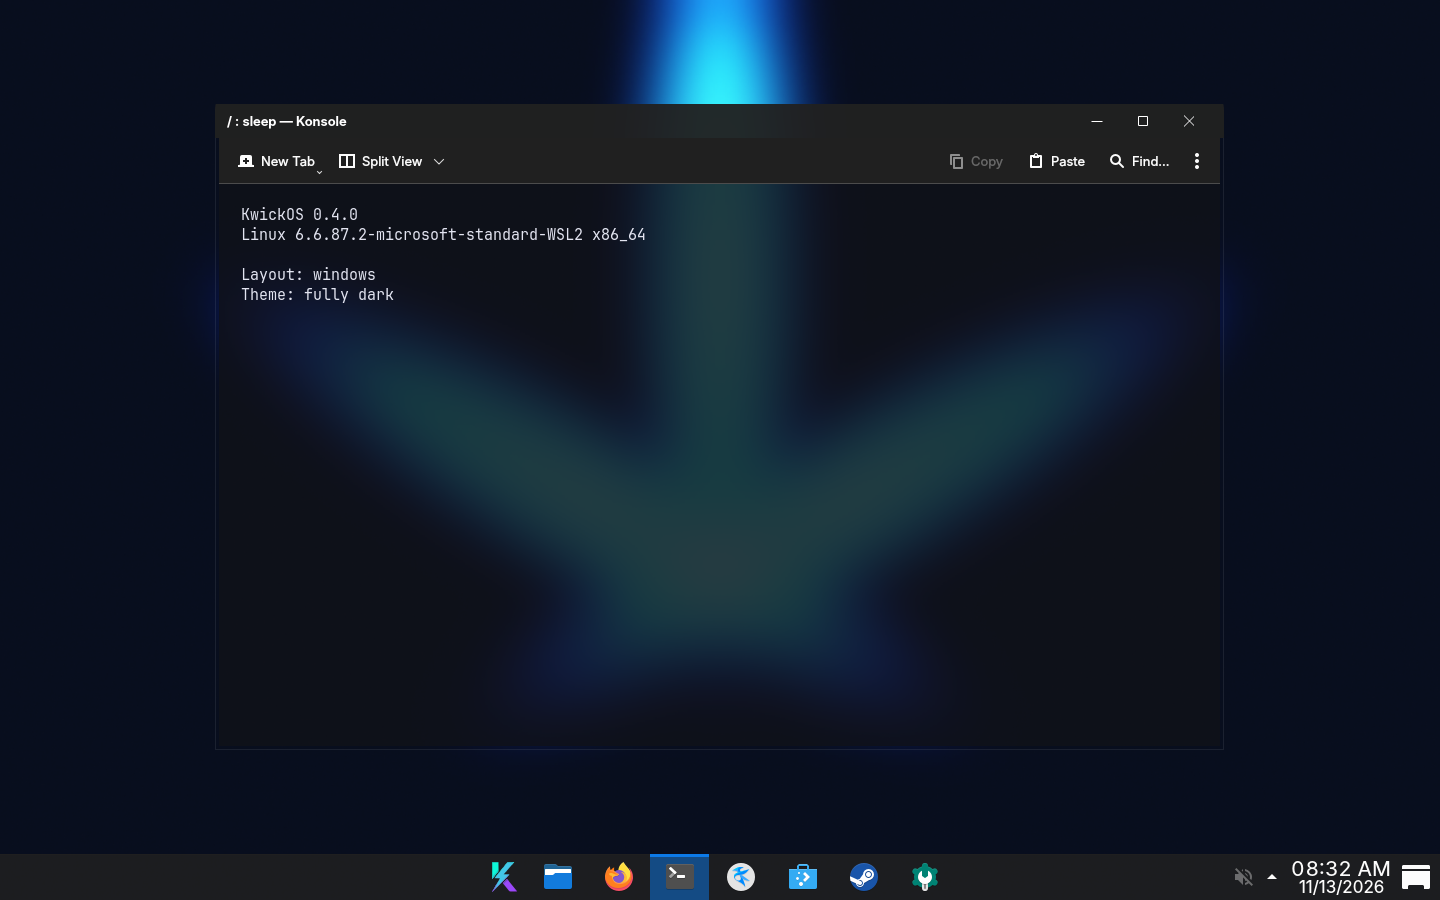
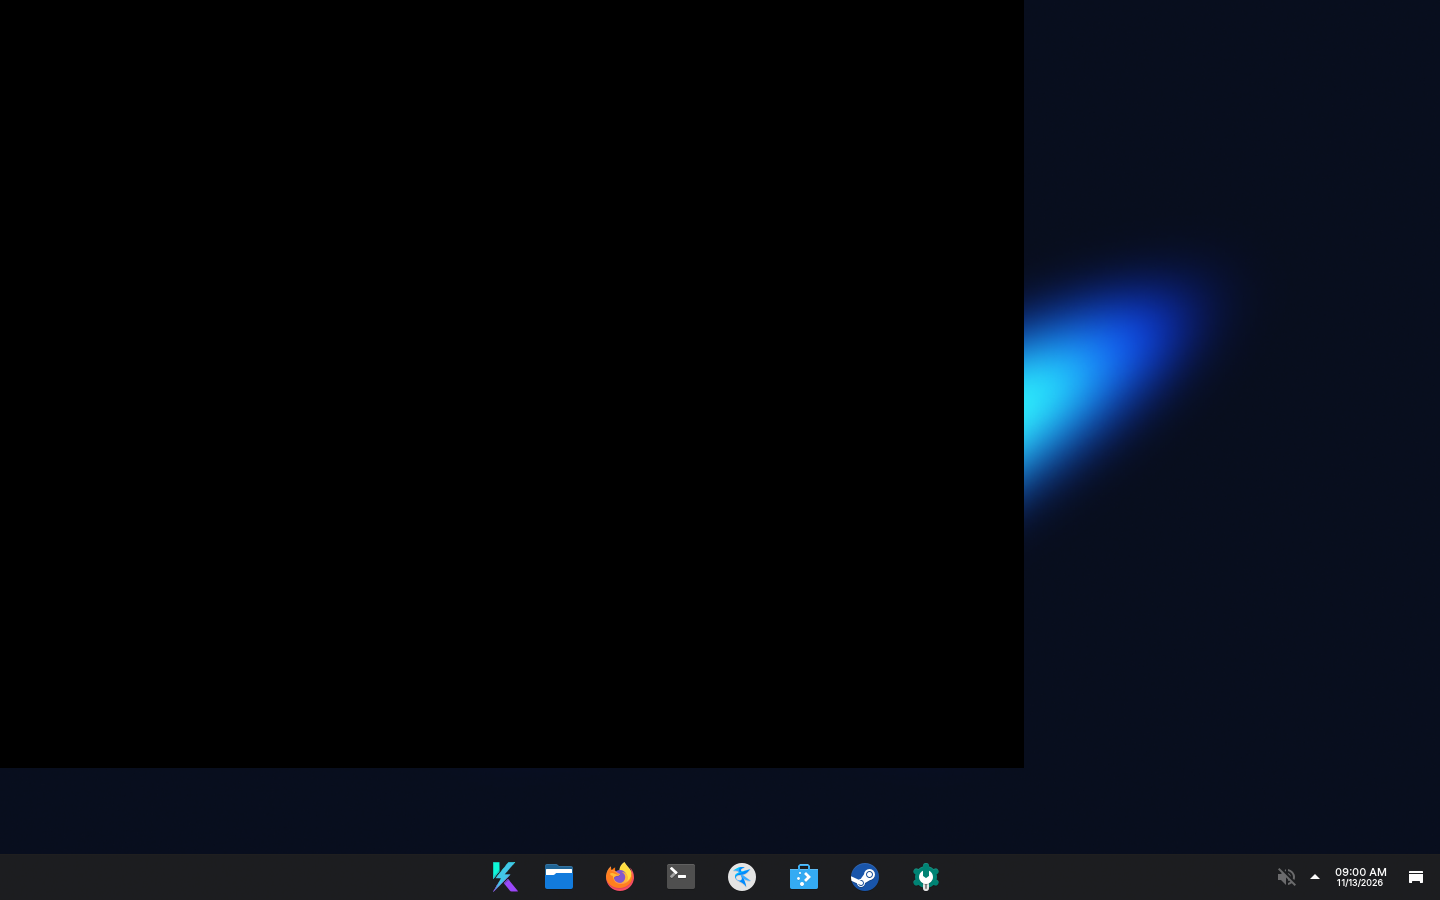
desktop: flush the menu bar to the edges and add a settings window
The macOS top bar floated with a gap above and beside it; it now spans the
full width. Both bars get trailing padding, and the Windows clock is pinned
to a small size. kwick-effects warns when the compositor is software-only,
and kwick-settings opens one window for the layout and effects preset.

diff --git a/desktop/rootfs/usr/share/kwick/plasma/macos.js b/desktop/rootfs/usr/share/kwick/plasma/macos.js
@@ -15,11 +15,11 @@ var launchers = [
     "applications:systemsettings.desktop"
 ].join(",");
 
-// ── Liquid-glass floating menu bar ──────────────────────────────────────────
+// ── Menu bar: flush to the top and both edges, translucent ──────────────────
 var top = new Panel;
 top.location = "top";
-top.height = Math.round(gridUnit * 1.5);
-top.floating = true;               // macOS 27 style: floating pill, not edge-to-edge
+top.height = Math.round(gridUnit * 1.6);
+top.floating = false;              // no gap above or at the sides
 top.hiding = "none";
 top.opacity = "translucent";
 top.alignment = "left";
@@ -54,8 +54,10 @@ clk.writeConfig("fontFamily", "Inter");
 clk.writeConfig("fontWeight", "500");
 clk.writeConfig("fontSize", "10");
 
-// Margin separator after clock
+// Margin separator after clock so the time is not flush against the edge
 var sep2 = top.addWidget("org.kde.plasma.marginsseparator");
+sep2.currentConfigGroup = ["General"];
+sep2.writeConfig("margin", "8");
 
 // ── Floating glass dock ─────────────────────────────────────────────────────
 var dock = new Panel;

diff --git a/desktop/rootfs/usr/share/kwick/plasma/windows.js b/desktop/rootfs/usr/share/kwick/plasma/windows.js
@@ -58,5 +58,10 @@ c.writeConfig("use24hFormat", 0);
 c.writeConfig("showSeconds", "false");
 c.writeConfig("fontFamily", "Inter");
 c.writeConfig("fontWeight", "400");
+c.writeConfig("fontSize", "8");           // Windows 11 clock is small
+c.writeConfig("autoFontAndSize", "false");
 
+var edge = p.addWidget("org.kde.plasma.marginsseparator");
+edge.currentConfigGroup = ["General"];
+edge.writeConfig("margin", "8");
 p.addWidget("org.kde.plasma.showdesktop");

diff --git a/README.md b/README.md
@@ -160,7 +160,8 @@ Upgrade a headless install in place: `apt update && apt install kwick-desktop`, 
 | tool | what it does |
 |---|---|
 | `kwick-layout linux\|windows\|macos` | window buttons, panel/dock position and UI fonts in the Linux, Windows or macOS style; works on KDE and GNOME, tiling gaps/bar on Hyprland/sway |
-| `kwick-effects off\|subtle\|wobbly\|compiz` | Compiz-style effects: wobbly windows, magic lamp, glide, fall-apart close, blur, burn-away (GNOME extensions / KWin effects / Hyprland animations) |
+| `kwick-effects off\|subtle\|wobbly\|compiz` | Compiz-style effects: wobbly windows, magic lamp, glide, fall-apart close, blur, burn-away (GNOME extensions / KWin effects / Hyprland animations). Needs a GPU compositor, so install `kwick-gpu` first; on a software compositor it writes the config and says so |
+| `kwick-settings` | one window to pick the layout and the effects preset, and it tells you when no GPU compositor is running |
 | `kwick-fonts windows\|macos\|msfonts` | Segoe-like (Open Sans), Calibri/Cambria metrics (Carlito/Caladea), Helvetica/SF-like (Inter); `msfonts` fetches the real Microsoft core fonts after you accept the EULA. Windows/macOS font names are aliased by fontconfig |
 | `kwick-desktop list\|install\|switch` | install and select another desktop (kde, gnome, hyprland, xfce, cinnamon, mate, lxqt) |
 | `steam`, `kwick-gaming` | Steam (Flathub build with Proton and the 32-bit runtime, installed on first launch), Proton-GE, Heroic, Lutris, GameMode, MangoHud; gaming sysctls preset |
@@ -176,8 +177,12 @@ Verified in the desktop image, rendered with Xvfb (no GPU):
 
 * the KDE session and `kwick-layout` in all three styles (screenshots above)
 * `kwick-fonts windows` and `macos`: `fc-match` resolves Segoe UI to Open Sans, Calibri to Carlito and Helvetica Neue to Inter
-* `kwick-effects compiz` writes the preset (wobbly windows, magic lamp, glide, fire, blur) into `kwinrc`
+* `kwick-effects compiz` writes the preset (wobbly windows, magic lamp, glide, fire, blur) into `kwinrc`, and now warns when the compositor is `qpainter`
+* `kwick-settings` opens a window to pick the layout and the effects preset (screenshot below)
+* the menu bar is flush to the top and side edges in the macOS layout, and the Windows clock is small with padding before it
 * `kwick-desktop list`, `kwick-gpu`, and the font and window-tiling screenshots below
+
+![KwickOS Settings](docs/img/settings.png)
 
 ![Font aliases from kwick-fonts](docs/img/fonts.png)
 ![Windows snapped into a tiling layout](docs/img/tiling.png)
